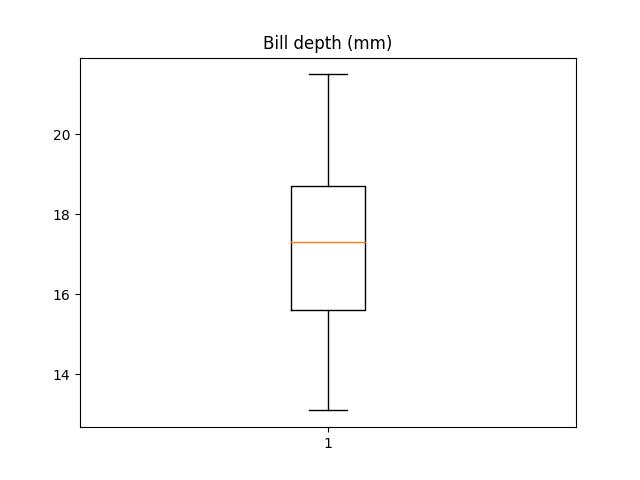
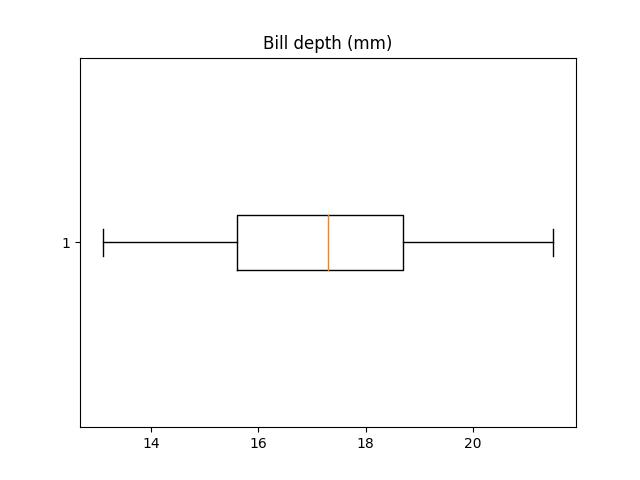
Added bar charts

diff --git a/src/boxplots.py b/src/boxplots.py
@@ -1,7 +1,6 @@
 import pandas as pd
 import matplotlib.pyplot as plt
 
-
 def generate_boxplots(dataset: pd.DataFrame, plots_dir: str):
     dataset_male = dataset.loc[dataset['sex'] == 'male']
     dataset_female = dataset.loc[dataset['sex'] == 'female']
@@ -10,74 +9,74 @@ def generate_boxplots(dataset: pd.DataFrame, plots_dir: str):
     # Bill length boxplot
     bill_length_boxplot, bill_length_boxplot_ax = plt.subplots()
     bill_length_boxplot_ax.set_title('Bill length (mm)')
-    bill_length_boxplot_ax.boxplot(dataset.bill_length_mm)
+    bill_length_boxplot_ax.boxplot(dataset.bill_length_mm, vert=False)
     bill_length_boxplot.savefig(plots_dir + "/bill_length_mm_boxplot.jpg", dpi=bill_length_boxplot.dpi)
 
     # Bill depth boxplot
     bill_depth_boxplot, bill_depth_boxplot_ax = plt.subplots()
     bill_depth_boxplot_ax.set_title('Bill depth (mm)')
-    bill_depth_boxplot_ax.boxplot(dataset.bill_depth_mm)
+    bill_depth_boxplot_ax.boxplot(dataset.bill_depth_mm, vert=False)
     bill_depth_boxplot.savefig(plots_dir + "/bill_depth_mm_boxplot.jpg", dpi=bill_depth_boxplot.dpi)
 
     # Flipper length boxplot
     flipper_length_boxplot, flipper_length_boxplot_ax = plt.subplots()
     flipper_length_boxplot_ax.set_title('Flipper length (mm)')
-    flipper_length_boxplot_ax.boxplot(dataset.flipper_length_mm)
+    flipper_length_boxplot_ax.boxplot(dataset.flipper_length_mm, vert=False)
     flipper_length_boxplot.savefig(plots_dir + "/flipper_length_mm_boxplot.jpg", dpi=flipper_length_boxplot.dpi)
 
     # Body mass boxplot
     body_mass_boxplot, body_mass_boxplot_ax = plt.subplots()
     body_mass_boxplot_ax.set_title('Body mass (g)')
-    body_mass_boxplot_ax.boxplot(dataset.body_mass_g)
+    body_mass_boxplot_ax.boxplot(dataset.body_mass_g, vert=False)
     body_mass_boxplot.savefig(plots_dir + "/body_mass_g.jpg", dpi=body_mass_boxplot.dpi)
 
     # Bill length male boxplot
     bill_length_male_boxplot, bill_length_male_boxplot_ax = plt.subplots()
     bill_length_male_boxplot_ax.set_title('Bill length male (mm)')
-    bill_length_male_boxplot_ax.boxplot(dataset_male.bill_length_mm)
+    bill_length_male_boxplot_ax.boxplot(dataset_male.bill_length_mm, vert=False)
     bill_length_male_boxplot.savefig(plots_dir + "/bill_length_male_boxplot.jpg", dpi=bill_length_male_boxplot.dpi)
 
     # Bill length female boxplot
     bill_length_female_boxplot, bill_length_female_boxplot_ax = plt.subplots()
     bill_length_female_boxplot_ax.set_title('Bill length female (mm)')
-    bill_length_female_boxplot_ax.boxplot(dataset_female.bill_length_mm)
+    bill_length_female_boxplot_ax.boxplot(dataset_female.bill_length_mm, vert=False)
     bill_length_female_boxplot.savefig(plots_dir + "/bill_length_female_boxplot.jpg",
                                        dpi=bill_length_female_boxplot.dpi)
 
     # Bill depth male boxplot
     bill_depth_male_boxplot, bill_depth_male_boxplot_ax = plt.subplots()
     bill_depth_male_boxplot_ax.set_title('Bill depth male (mm)')
-    bill_depth_male_boxplot_ax.boxplot(dataset_male.bill_depth_mm)
+    bill_depth_male_boxplot_ax.boxplot(dataset_male.bill_depth_mm, vert=False)
     bill_depth_male_boxplot.savefig(plots_dir + "/bill_depth_male_boxplot.jpg", dpi=bill_depth_male_boxplot.dpi)
 
     # Bill depth female boxplot
     bill_depth_female_boxplot, bill_depth_female_boxplot_ax = plt.subplots()
     bill_depth_female_boxplot_ax.set_title('Bill depth female (mm)')
-    bill_depth_female_boxplot_ax.boxplot(dataset_female.bill_depth_mm)
+    bill_depth_female_boxplot_ax.boxplot(dataset_female.bill_depth_mm, vert=False)
     bill_depth_female_boxplot.savefig(plots_dir + "/bill_depth_female_boxplot.jpg", dpi=bill_depth_female_boxplot.dpi)
 
     # Flipper length male boxplot
     flipper_length_male_boxplot, flipper_length_male_boxplot_ax = plt.subplots()
     flipper_length_male_boxplot_ax.set_title('Flipper length male (mm)')
-    flipper_length_male_boxplot_ax.boxplot(dataset_male.flipper_length_mm)
+    flipper_length_male_boxplot_ax.boxplot(dataset_male.flipper_length_mm, vert=False)
     flipper_length_male_boxplot.savefig(plots_dir + "/flipper_length_male_boxplot.jpg",
                                         dpi=flipper_length_male_boxplot.dpi)
 
     # Flipper length female boxplot
     flipper_length_female_boxplot, flipper_length_female_boxplot_ax = plt.subplots()
     flipper_length_female_boxplot_ax.set_title('Flipper length female (mm)')
-    flipper_length_female_boxplot_ax.boxplot(dataset_female.flipper_length_mm)
+    flipper_length_female_boxplot_ax.boxplot(dataset_female.flipper_length_mm, vert=False)
     flipper_length_female_boxplot.savefig(plots_dir + "/flipper_length_female_boxplot.jpg",
                                           dpi=flipper_length_female_boxplot.dpi)
 
     # Body mass male boxplot
     body_mass_male_boxplot, body_mass_male_boxplot_ax = plt.subplots()
     body_mass_male_boxplot_ax.set_title('Body mass male (g)')
-    body_mass_male_boxplot_ax.boxplot(dataset_male.body_mass_g)
+    body_mass_male_boxplot_ax.boxplot(dataset_male.body_mass_g, vert=False)
     body_mass_male_boxplot.savefig(plots_dir + "/body_mass_male_boxplot.jpg", dpi=body_mass_male_boxplot.dpi)
 
     # Body mass female boxplot
     body_mass_female_boxplot, body_mass_female_boxplot_ax = plt.subplots()
     body_mass_female_boxplot_ax.set_title('Body mass female (g)')
-    body_mass_female_boxplot_ax.boxplot(dataset_female.body_mass_g)
+    body_mass_female_boxplot_ax.boxplot(dataset_female.body_mass_g, vert=False)
     body_mass_female_boxplot.savefig(plots_dir + "/body_mass_female_boxplot.jpg", dpi=body_mass_female_boxplot.dpi)

diff --git a/src/scatter_plots.py b/src/scatter_plots.py
@@ -1,6 +1,7 @@
 import matplotlib.pyplot as plt
 
 
+# TODO: Colorize by species
 def generate_scatter_plots(dataset, plots_dir):
     # Scatter plots
     # Sex and bill lengths
@@ -94,17 +95,73 @@ def generate_scatter_plots(dataset, plots_dir):
                                                  dpi=flipper_length_body_mass_correlation.dpi)
 
     # Species and bill length
+    species_bill_length_correlation, species_bill_length_correlation_ax = plt.subplots()
+    species_bill_length_correlation_ax.scatter(x=dataset.species, y=dataset.bill_length_mm)
+    species_bill_length_correlation_ax.set_title('Correlation of Species and Bill length (mm)')
+    species_bill_length_correlation_ax.set_xlabel('Species')
+    species_bill_length_correlation_ax.set_ylabel('Bill length (mm)')
+    species_bill_length_correlation.savefig(plots_dir + "/species_bill_length_correlation.jpg",
+                                            dpi=species_bill_length_correlation.dpi)
 
     # Species and bill depth
+    species_bill_depth_correlation, species_bill_depth_correlation_ax = plt.subplots()
+    species_bill_depth_correlation_ax.scatter(x=dataset.species, y=dataset.bill_depth_mm)
+    species_bill_depth_correlation_ax.set_title('Correlation of Species and Bill depth (mm)')
+    species_bill_depth_correlation_ax.set_xlabel('Species')
+    species_bill_depth_correlation_ax.set_ylabel('Bill depth (mm)')
+    species_bill_depth_correlation.savefig(plots_dir + "/species_bill_depth_correlation.jpg",
+                                           dpi=species_bill_depth_correlation.dpi)
 
     # Species and flipper length
+    species_flipper_length_correlation, species_flipper_length_correlation_ax = plt.subplots()
+    species_flipper_length_correlation_ax.scatter(x=dataset.species, y=dataset.flipper_length_mm)
+    species_flipper_length_correlation_ax.set_title('Correlation of Species and Flipper length (mm)')
+    species_flipper_length_correlation_ax.set_xlabel('Species')
+    species_flipper_length_correlation_ax.set_ylabel('Flipper length (mm)')
+    species_flipper_length_correlation.savefig(plots_dir + "/species_flipper_length_correlation.jpg",
+                                               dpi=species_flipper_length_correlation.dpi)
 
     # Species and body mass
+    species_body_mass_correlation, species_body_mass_correlation_ax = plt.subplots()
+    species_body_mass_correlation_ax.scatter(x=dataset.species, y=dataset.body_mass_g)
+    species_body_mass_correlation_ax.set_title('Correlation of Species and Body mass (g)')
+    species_body_mass_correlation_ax.set_xlabel('Species')
+    species_body_mass_correlation_ax.set_ylabel('Body mass (g)')
+    species_body_mass_correlation.savefig(plots_dir + "/species_body_mass_correlation.jpg",
+                                          dpi=species_body_mass_correlation.dpi)
 
     # Island and bill length
+    island_bill_length_correlation, island_bill_length_correlation_ax = plt.subplots()
+    island_bill_length_correlation_ax.scatter(x=dataset.island, y=dataset.bill_length_mm)
+    island_bill_length_correlation_ax.set_title('Correlation of Island and Bill length (mm)')
+    island_bill_length_correlation_ax.set_xlabel('Island')
+    island_bill_length_correlation_ax.set_ylabel('Bill length (mm)')
+    island_bill_length_correlation.savefig(plots_dir + "/island_bill_length_correlation.jpg",
+                                           dpi=island_bill_length_correlation.dpi)
 
     # Island and bill depth
+    island_bill_depth_correlation, island_bill_depth_correlation_ax = plt.subplots()
+    island_bill_depth_correlation_ax.scatter(x=dataset.island, y=dataset.bill_depth_mm)
+    island_bill_depth_correlation_ax.set_title('Correlation of Island and Bill depth (mm)')
+    island_bill_depth_correlation_ax.set_xlabel('Island')
+    island_bill_depth_correlation_ax.set_ylabel('Bill depth (mm)')
+    island_bill_depth_correlation.savefig(plots_dir + "/island_bill_depth_correlation.jpg",
+                                          dpi=island_bill_depth_correlation.dpi)
 
     # Island and flipper length
+    island_flipper_length_correlation, island_flipper_length_correlation_ax = plt.subplots()
+    island_flipper_length_correlation_ax.scatter(x=dataset.island, y=dataset.flipper_length_mm)
+    island_flipper_length_correlation_ax.set_title('Correlation of Island and Flipper length (mm)')
+    island_flipper_length_correlation_ax.set_xlabel('Island')
+    island_flipper_length_correlation_ax.set_ylabel('Flipper length (mm)')
+    island_flipper_length_correlation.savefig(plots_dir + "/island_flipper_length_correlation.jpg",
+                                              dpi=island_flipper_length_correlation.dpi)
 
     # Island and body mass
+    island_body_mass_correlation, island_body_mass_correlation_ax = plt.subplots()
+    island_body_mass_correlation_ax.scatter(x=dataset.island, y=dataset.body_mass_g)
+    island_body_mass_correlation_ax.set_title('Correlation of Island and Body mass (g)')
+    island_body_mass_correlation_ax.set_xlabel('Island')
+    island_body_mass_correlation_ax.set_ylabel('Body mass (g)')
+    island_body_mass_correlation.savefig(plots_dir + "/island_body_mass_correlation.jpg",
+                                         dpi=island_body_mass_correlation.dpi)

diff --git a/src/bar_plots.py b/src/bar_plots.py
@@ -1,4 +1,91 @@
+import matplotlib.pyplot as plt
+import pandas as pd
+import numpy as np
+
+
 def create_bar_plot(dataset, plots_dir):
     # Species per island
-    pass
+    species_per_island_pivot = dataset.pivot_table(index=['island', 'species'], aggfunc={'species': np.size},
+                                                   fill_value=0)
+    print(species_per_island_pivot)
 
+    labels = ['Biscoe', 'Dream', 'Torgersen']
+    adelie_data = [44, 55, 47]
+    gentoo_data = [119, 0, 0]
+    chinstrap_data = [0, 68, 0]
+
+    x = np.arange(len(labels))
+    width = 0.25
+
+    races_per_island_bar, races_per_island_bar_ax = plt.subplots()
+    rects1 = races_per_island_bar_ax.bar(x - width, adelie_data, width, label='Adelie')
+    rects2 = races_per_island_bar_ax.bar(x + width / 60, gentoo_data, width, label='Gentoo')
+    rects3 = races_per_island_bar_ax.bar(x + width, chinstrap_data, width, label='Chinstrap')
+
+    races_per_island_bar_ax.set_ylabel('Amount')
+    races_per_island_bar_ax.set_title('Races by island')
+    races_per_island_bar_ax.set_xticks(x, labels)
+    races_per_island_bar_ax.legend()
+
+    races_per_island_bar_ax.bar_label(rects1, padding=3)
+    races_per_island_bar_ax.bar_label(rects2, padding=3)
+    races_per_island_bar_ax.bar_label(rects3, padding=3)
+
+    races_per_island_bar.tight_layout()
+    races_per_island_bar.savefig(plots_dir + "/races_per_island_bar.jpg", dpi=races_per_island_bar.dpi)
+
+    # Male female per race
+    sex_per_race_pivot = dataset.pivot_table(index=['species', 'sex'], aggfunc={'sex': np.size},
+                                                   fill_value=0)
+
+    print(sex_per_race_pivot)
+
+    labels = ['Adelie', 'Chinstrap', 'Gentoo']
+    female_data = [73, 34, 58]
+    male_data = [73, 34, 61]
+
+    x = np.arange(len(labels))
+    width = 0.25
+
+    sex_per_race_bar, sex_per_race_bar_ax = plt.subplots()
+    rects1 = sex_per_race_bar_ax.bar(x - width / 2, female_data, width, label='Female')
+    rects2 = sex_per_race_bar_ax.bar(x + width / 2, male_data, width, label='Male')
+
+    sex_per_race_bar_ax.set_ylabel('Amount')
+    sex_per_race_bar_ax.set_title('Sex by race')
+    sex_per_race_bar_ax.set_xticks(x, labels)
+    sex_per_race_bar_ax.legend()
+
+    sex_per_race_bar_ax.bar_label(rects1, padding=3)
+    sex_per_race_bar_ax.bar_label(rects2, padding=3)
+
+    sex_per_race_bar.tight_layout()
+    sex_per_race_bar.savefig(plots_dir + "/sex_per_race_bar.jpg", dpi=sex_per_race_bar.dpi)
+
+    # Male female per island
+    sex_per_island_pivot = dataset.pivot_table(index=['island', 'sex'], aggfunc={'sex': np.size},
+                                             fill_value=0)
+
+    print(sex_per_island_pivot)
+
+    labels = ['Biscoe', 'Dream', 'Torgersen']
+    female_data = [80, 61, 24]
+    male_data = [83, 62, 23]
+
+    x = np.arange(len(labels))
+    width = 0.25
+
+    sex_per_island_bar, sex_per_island_bar_ax = plt.subplots()
+    rects1 = sex_per_island_bar_ax.bar(x - width / 2, female_data, width, label='Female')
+    rects2 = sex_per_island_bar_ax.bar(x + width / 2, male_data, width, label='Male')
+
+    sex_per_island_bar_ax.set_ylabel('Amount')
+    sex_per_island_bar_ax.set_title('Sex by island')
+    sex_per_island_bar_ax.set_xticks(x, labels)
+    sex_per_island_bar_ax.legend()
+
+    sex_per_island_bar_ax.bar_label(rects1, padding=3)
+    sex_per_island_bar_ax.bar_label(rects2, padding=3)
+
+    sex_per_island_bar.tight_layout()
+    sex_per_island_bar.savefig(plots_dir + "/sex_per_island_bar.jpg", dpi=sex_per_island_bar.dpi)

diff --git a/src/main.py b/src/main.py
@@ -2,6 +2,7 @@ import pandas as pd
 import boxplots
 import pie_plots
 import scatter_plots
+import bar_plots
 import statistical_values
 
 plots_dir = "../plots"
@@ -15,4 +16,5 @@ dataset.dropna(inplace=True)
 boxplots.generate_boxplots(dataset, plots_dir)
 pie_plots.generate_pie_plots(dataset, plots_dir)
 scatter_plots.generate_scatter_plots(dataset, plots_dir)
+bar_plots.create_bar_plot(dataset, plots_dir)
 statistical_values.calculate_statistical_values(dataset)
